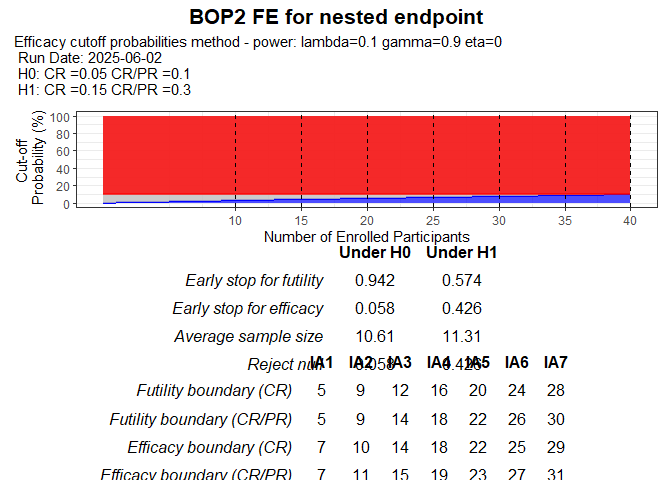
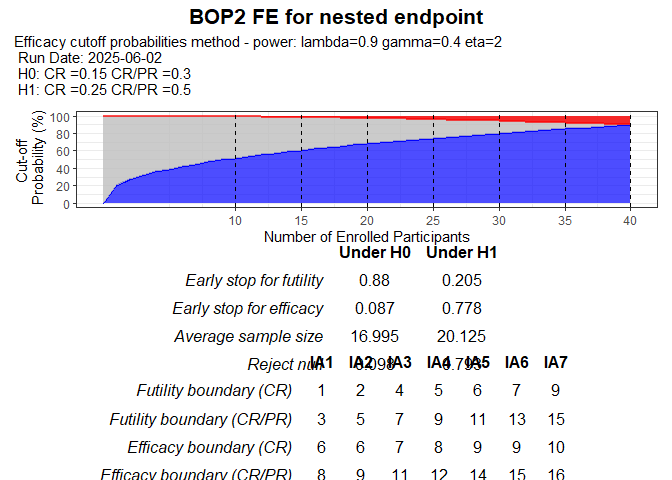
update nested

diff --git a/README.md b/README.md
@@ -75,19 +75,19 @@ summary(test_binary)
 #> 
 #> $opt_pars
 #>   lambda gamma eta
-#> 1    0.9     1   2
+#> 1    0.9     1 1.1
 #> 
 #> $boundary
 #>                   IA1 IA2 IA3 IA4 IA5 IA6 IA7
 #> Futility boundary   1   2   3   5   7   9  11
-#> Efficacy boundary   6   7   9   9  10  11  12
+#> Efficacy boundary   6   7   8   9  10  11  12
 #> 
 #> $oc
 #>                         Under H0 Under H1
-#> Early stop for futility    0.861    0.093
-#> Early stop for efficacy    0.089    0.881
-#> Average sample size       20.740   20.175
-#> Reject null                0.095    0.892
+#> Early stop for futility    0.873    0.109
+#> Early stop for efficacy    0.089    0.868
+#> Average sample size       20.520   19.725
+#> Reject null                0.095    0.878
 #plot(test_binary)
 ```
 
@@ -101,8 +101,7 @@ plot(test_binary)
 
 ``` r
 test_nested <- BOP2FE_nested(
- H0=c(0.05,0.05, 0.15, 0.75),
- H1= c(0.15,0.15, 0.20, 0.50),
+ H0=c(0.15,0.15, 0.70), H1= c(0.25,0.25, 0.50),
  n = c(10, 5, 5, 5, 5, 5, 5),
  nsim = 1000, t1e = 0.1, method = "power",
  lambda1 = 0, lambda2 = 1, grid1 = 11,
@@ -113,10 +112,10 @@ test_nested <- BOP2FE_nested(
 summary(test_nested)
 #> $design_pars
 #> $design_pars$H0
-#> [1] 0.05 0.05 0.15 0.75
+#> [1] 0.15 0.15 0.70
 #> 
 #> $design_pars$H1
-#> [1] 0.15 0.15 0.20 0.50
+#> [1] 0.25 0.25 0.50
 #> 
 #> $design_pars$n
 #> [1] 10  5  5  5  5  5  5
@@ -133,21 +132,21 @@ summary(test_nested)
 #> 
 #> $opt_pars
 #>   lambda gamma eta
-#> 1    0.1   0.9   0
+#> 1    0.9   0.4   2
 #> 
 #> $boundary
 #>                           IA1 IA2 IA3 IA4 IA5 IA6 IA7
-#> Futility boundary (CR)      5   9  12  16  20  24  28
-#> Futility boundary (CR/PR)   5   9  14  18  22  26  30
-#> Efficacy boundary (CR)      7  10  14  18  22  25  29
-#> Efficacy boundary (CR/PR)   7  11  15  19  23  27  31
+#> Futility boundary (CR)      1   2   4   5   6   7   9
+#> Futility boundary (CR/PR)   3   5   7   9  11  13  15
+#> Efficacy boundary (CR)      6   6   7   8   9   9  10
+#> Efficacy boundary (CR/PR)   8   9  11  12  14  15  16
 #> 
 #> $oc
 #>                         Under H0 Under H1
-#> Early stop for futility    0.942    0.574
-#> Early stop for efficacy    0.058    0.426
-#> Average sample size       10.610   11.310
-#> Reject null                0.058    0.426
+#> Early stop for futility    0.880    0.205
+#> Early stop for efficacy    0.087    0.778
+#> Average sample size       16.995   20.125
+#> Reject null                0.098    0.793
 #plot(test_nested)
 ```
 
@@ -193,21 +192,21 @@ summary(test_coprimary)
 #> 
 #> $opt_pars
 #>   lambda gamma eta
-#> 1    0.9   0.4 2.3
+#> 1    0.9   0.3 2.6
 #> 
 #> $boundary
 #>                          IA1 IA2 IA3 IA4 IA5 IA6 IA7
-#> Futility boundary (OR)     1   2   2   3   4   5   6
+#> Futility boundary (OR)     1   2   3   4   4   5   6
 #> Futility boundary (PFS6)   2   3   5   6   8   9  11
-#> Efficacy boundary (OR)     5   6   6   6   7   7   7
+#> Efficacy boundary (OR)     5   6   6   7   7   7   7
 #> Efficacy boundary (PFS6)   7   8   9  10  11  11  12
 #> 
 #> $oc
 #>                         Under H0 Under H1
-#> Early stop for futility    0.876    0.080
-#> Early stop for efficacy    0.086    0.909
-#> Average sample size       16.910   18.635
-#> Reject null                0.098    0.919
+#> Early stop for futility    0.882    0.086
+#> Early stop for efficacy    0.087    0.911
+#> Average sample size       16.415   19.245
+#> Reject null                0.098    0.914
 #plot(test_coprimary)
 ```
 
@@ -247,20 +246,20 @@ summary(test_joint)
 #> 
 #> $opt_pars
 #>   lambda gamma eta
-#> 1    0.6   0.7 2.7
+#> 1    0.7   0.8 0.7
 #> 
 #> $boundary
 #>                         IA1 IA2 IA3 IA4 IA5 IA6 IA7
-#> Futility boundary (OR)    3   5   8  10  13  16  18
-#> Futility boundary (Tox)   5   6   7   9  10  11  12
-#> Efficacy boundary (OR)    9  11  13  15  17  18  19
-#> Efficacy boundary (Tox)   0   1   3   4   6   9  11
+#> Futility boundary (OR)    3   5   8  11  13  16  19
+#> Futility boundary (Tox)   5   6   7   8   9  10  11
+#> Efficacy boundary (OR)    7   9  12  14  16  18  20
+#> Efficacy boundary (Tox)   1   2   4   5   7   9  10
 #> 
 #> $oc
 #>                         Under H0 Under H1
-#> Early stop for futility    0.877    0.265
-#> Early stop for efficacy    0.066    0.669
-#> Average sample size       18.955   27.220
-#> Reject null                0.099    0.725
+#> Early stop for futility    0.890    0.273
+#> Early stop for efficacy    0.091    0.722
+#> Average sample size       17.640   21.440
+#> Reject null                0.098    0.725
 #plot(test_joint)
 ```
